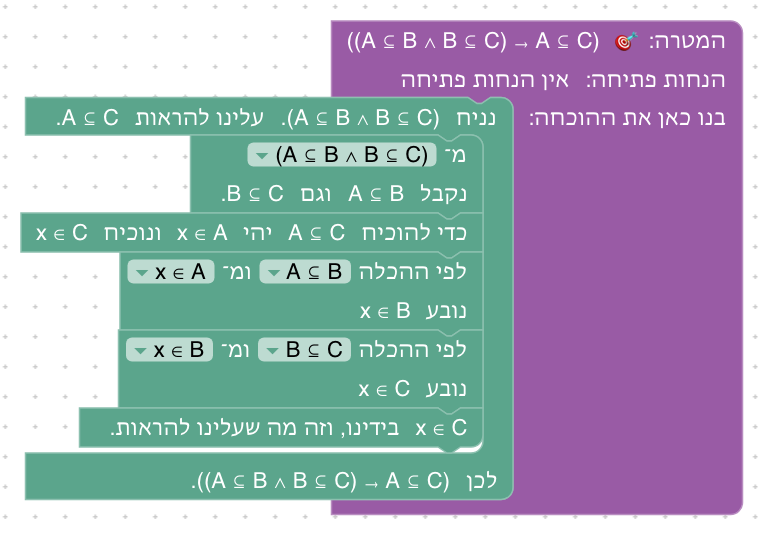
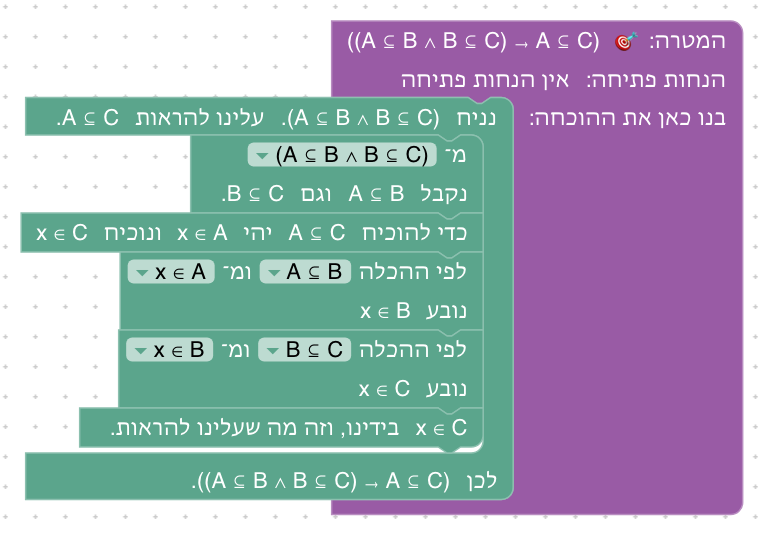
Never name a new object as a variable bound in a statement in hand
One rule for every new object: its variable's name, unless an object in
hand has it, or a variable bound in a statement in hand or in the goal does;
then the first subscript free. So "יהי x₀ ∈ A" when the assumption is
¬∃x (…), as in level 8.4; ∀ introduction and ∃ elimination always get x₀,
as before, since their variable is bound in the statement they take apart.

diff --git a/frontend/src/game/unit8World.js b/frontend/src/game/unit8World.js
@@ -140,12 +140,12 @@ export const unit8Levels = [
 בהרצאה: A *אינה מוכלת* ב־B, ונסמן A ⊈ B, אם קיים איבר ב־A שאינו נמצא ב־B: \`A ⊈ B ⟺ ∃x (x ∈ A ∧ x ∉ B)\`. בהרצאה זה פותח מההגדרה בשקילויות: שלילת כמת כולל, ואחר כך שלילת גרירה.
 
 כאן נוכיח את הכיוון ⇐ בלי שקילויות, בהוכחה בשלילה (יחידה 4): נניח שאין איבר כזה, ונוכיח A ⊆ B, בסתירה להנחה ¬(A ⊆ B).
-בתוך ההכלה, יהי x ∈ A. אם x ∉ B, x הוא בדיוק האיבר שאמרנו שאינו קיים. לכן גם שם נוכיח בשלילה.`,
+בתוך ההכלה, יהי x₀ ∈ A. השם x₀, ולא x, כי x כבר משמש כמשתנה קשור בהנחה ∃x (…). אם x₀ ∉ B, x₀ הוא בדיוק האיבר שאמרנו שאינו קיים. לכן גם שם נוכיח בשלילה.`,
         hints: [
             `גררו את הבלוק ${ASSUME_BLOCK} אל תוך בלוק המטרה, ולתוכו את הבלוק ${BY_CONTRADICTION_BLOCK}. עכשיו כתוב בו: נניח בשלילה ¬∃x (x ∈ A ∧ ¬x ∈ B). עלינו להגיע לסתירה.`,
-            `גררו לתוכו את הבלוק ${NOT_ELIM_BLOCK} עם ¬(A ⊆ B): די להוכיח A ⊆ B. אחריו הוסיפו את הבלוק ${SUBSET_INTRO_BLOCK}: יהי x ∈ A ונוכיח x ∈ B.`,
-            `הוסיפו שוב את הבלוק ${BY_CONTRADICTION_BLOCK}: נניח בשלילה ¬x ∈ B. ובתוכו ${NOT_ELIM_BLOCK} עם ¬∃x (x ∈ A ∧ ¬x ∈ B): די להוכיח שקיים איבר כזה.`,
-            `הוסיפו את הבלוק ${EXISTS_INTRO_BLOCK}, ובחרו בו את x. בתוכו ${AND_INTRO_BLOCK}: בכל חלק, מה שמוכיחים כבר בידינו.`,
+            `גררו לתוכו את הבלוק ${NOT_ELIM_BLOCK} עם ¬(A ⊆ B): די להוכיח A ⊆ B. אחריו הוסיפו את הבלוק ${SUBSET_INTRO_BLOCK}: יהי x₀ ∈ A ונוכיח x₀ ∈ B.`,
+            `הוסיפו שוב את הבלוק ${BY_CONTRADICTION_BLOCK}: נניח בשלילה ¬x₀ ∈ B. ובתוכו ${NOT_ELIM_BLOCK} עם ¬∃x (x ∈ A ∧ ¬x ∈ B): די להוכיח שקיים איבר כזה.`,
+            `הוסיפו את הבלוק ${EXISTS_INTRO_BLOCK}, ובחרו בו את x₀. בתוכו ${AND_INTRO_BLOCK}: בכל חלק, מה שמוכיחים כבר בידינו.`,
         ],
         conclusion: `הוכחתם שמ־A ⊈ B נובע שקיים איבר ב־A שאינו ב־B. הכיוון השני קל יותר: איבר כזה מראה שלא כל איבר של A שייך ל־B.
 זו השקילות של ההרצאה, ¬∀x (x ∈ A → x ∈ B) ⟺ ∃x (x ∈ A ∧ x ∉ B): שלילת "לכל" ושלילת גרירה, שתיהן מיחידה 6.`,

diff --git a/frontend/src/blocks/moves.js b/frontend/src/blocks/moves.js
@@ -1,7 +1,7 @@
 import * as Blockly from 'blockly/core';
 import { leanBranches, leanGenerator } from '../generator/lean';
 import { PLACEHOLDER } from '../blocks/gameBlocks';
-import { formatProofGoal, freshName, negatedStatement, splitConnective, splitImplication, splitQuantifier, splitRelation, subscriptedName, substitute, unfoldMembership } from '../game/formatProofGoal';
+import { boundNames, formatProofGoal, freshName, negatedStatement, splitConnective, splitImplication, splitQuantifier, splitRelation, substitute, unfoldMembership } from '../game/formatProofGoal';
 import { isolateFormulas, isolateHebrew } from '../game/bidi';
 import { hasNoVariables, unfoldableParts } from '../game/terms';
 
@@ -513,13 +513,15 @@ const elementName = (block, smaller, larger = '') => {
 const isRelationSet = (block, text) => (text.replace(/\[[^\]]*\]_\S+/g, '').match(/\p{L}[\p{L}\p{N}₀-₉_']*/gu) || [])
     .some((name) => block.stateBefore?.relations?.includes(name));
 
-// The name of a new object: an element a set's rule takes keeps its
-// variable's name, unless taken (see freshName); the object ∀ introduction
-// and ∃ elimination take is the quantified variable's with a subscript, x₀,
-// to read apart from the bound x (see subscriptedName).
+// The name of a new object: its variable's, unless an object in hand has it,
+// or a variable bound in a statement in hand or in the goal does, so that an
+// object never reads as a bound variable; then the first subscript free, x₀
+// (see freshName). The object ∀ introduction and ∃ elimination take is named
+// apart from the variable of the statement they take apart: "יהי x₀ שרירותי".
 const thingsInHand = (block) => [...(block.stateBefore?.objects || []), ...(block.stateBefore?.sets || []), ...(block.stateBefore?.relations || []), ...(block.stateBefore?.functions || [])];
-const newObjectName = (block, variable) => freshName(variable, thingsInHand(block));
-const arbitraryObjectName = (block, variable) => subscriptedName(variable, thingsInHand(block));
+const takenNames = (block) => [...thingsInHand(block), ...[...(block.stateBefore?.assumptions || []), block.stateBefore?.goal || ''].flatMap(boundNames)];
+const newObjectName = (block, variable) => freshName(variable, takenNames(block));
+const arbitraryObjectName = (block, variable) => freshName(variable, [...takenNames(block), variable]);
 
 const sameStatement = (a, b) => formatProofGoal(a) === formatProofGoal(b);
 

diff --git a/frontend/src/game/formatProofGoal.test.js b/frontend/src/game/formatProofGoal.test.js
@@ -1,5 +1,5 @@
 import { describe, expect, it } from 'vitest';
-import { formatProofGoal, splitImplication } from './formatProofGoal';
+import { boundNames, formatProofGoal, splitImplication } from './formatProofGoal';
 
 describe('formatProofGoal', () => {
     it('leaves an atomic goal alone', () => {
@@ -43,6 +43,13 @@ describe('formatProofGoal with and, or, iff, not', () => {
     it('keeps negation tight', () => {
         expect(formatProofGoal('¬P ∨ Q')).toBe('(¬P ∨ Q)');
         expect(formatProofGoal('¬(P ∧ Q)')).toBe('¬(P ∧ Q)');
+    });
+
+    it('finds the variables a statement binds', () => {
+        expect(boundNames('∃ x, ∀ (y : obj), R x y')).toEqual(['x', 'y']);
+        expect(boundNames('¬∃ x, x ∈ A ∧ ¬x ∈ B')).toEqual(['x']);
+        expect(boundNames('∀ x y, P x → Q y')).toEqual(['x', 'y']);
+        expect(boundNames('x ∈ A')).toEqual([]);
     });
 
     it('puts a negated relation in parentheses, but not a negated membership', () => {

diff --git a/frontend/e2e/solutions.js b/frontend/e2e/solutions.js
@@ -256,7 +256,7 @@ export const UNITS = [
             [{ label: 'פתרון', steps: [assume, andElim('A ⊆ B ∧ B ⊆ C'), subsetIntro, subsetElim('A ⊆ B', 'x ∈ A'), subsetElim('B ⊆ C', 'x ∈ B'), close] }],
             [{
                 label: 'פתרון',
-                steps: [assume, byContradiction, notElim('¬A ⊆ B'), subsetIntro, byContradiction, notElim('¬∃ x, x ∈ A ∧ ¬x ∈ B'), existsIntro('x'), andIntro([close], [close])],
+                steps: [assume, byContradiction, notElim('¬A ⊆ B'), subsetIntro, byContradiction, notElim('¬∃ x, x ∈ A ∧ ¬x ∈ B'), existsIntro('x₀'), andIntro([close], [close])],
             }],
             [{ label: 'פתרון', steps: [assume, andElim('A ⊆ B ∧ B ⊆ A'), setEq([close], [close])] }],
             [{ label: 'פתרון', steps: [subsetIntro, unfold('x ∈ ∅'), exfalso, close] }],

diff --git a/frontend/src/game/formatProofGoal.js b/frontend/src/game/formatProofGoal.js
@@ -55,6 +55,17 @@ const parseQuantifier = (text) => {
     return null;
 };
 
+// The variables bound by the quantifiers of a statement, as Lean writes it:
+// `∃ x, ∀ (y : obj), R x y` binds x and y (and `∃ x ∈ A, …` binds x).
+export const boundNames = (text = '') => {
+    const names = [];
+    for (let index = 0; index < text.length; index += 1) {
+        const quantifier = QUANTIFIERS.includes(text[index]) && parseQuantifier(text.slice(index));
+        if (quantifier) names.push(...quantifier.names.join(' ').split('∈')[0].trim().split(/\s+/).filter(Boolean));
+    }
+    return names;
+};
+
 // A quantified formula (possibly negated) inside a connective is written in
 // parentheses, so it is clear where its body ends: `(∀x P(x)) → Q`.
 const isQuantified = (formula) => QUANTIFIERS.includes(formula.replace(/^¬+/, '')[0]);

diff --git a/frontend/src/game/moves.test.js b/frontend/src/game/moves.test.js
@@ -295,6 +295,9 @@ describe('the moves of lesson 2, on sets', () => {
         expect(phraseOf(subsetIntro)).toBe('כדי להוכיח 𝒫(A) ⊆ 𝒫(B) יהי X ∈ 𝒫(A) ונוכיח X ∈ 𝒫(B)');
         inner.setStateBefore({ assumptions: ['x ∈ A'], objects: ['x'], sets: ['A'], goal: 'A ⊆ A' });
         expect(phraseOf(inner)).toBe('כדי להוכיח A ⊆ A יהי x₀ ∈ A ונוכיח x₀ ∈ A');
+        // Nor the name of a variable bound in a statement in hand.
+        inner.setStateBefore({ assumptions: ['¬∃ x, x ∈ A ∧ ¬x ∈ B'], objects: [], sets: ['A', 'B'], goal: 'A ⊆ B' });
+        expect(phraseOf(inner)).toBe('כדי להוכיח A ⊆ B יהי x₀ ∈ A ונוכיח x₀ ∈ B');
     });
 });
 

diff --git a/docs/curriculum/design/moves.md b/docs/curriculum/design/moves.md
@@ -21,7 +21,7 @@
 - **מהלך שמשתמש בהנחת האינדוקציה אומר זאת**, כמו בספרים ("by the inductive hypothesis"): בחלק "צעד" של אינדוקציה, החלפה לפי אחת מהנחות האינדוקציה נכתבת "לפי הנחת האינדוקציה … נחליף …", סיום שהמטרה בו היא ההנחה נכתב "זו בדיוק הנחת האינדוקציה.", וחשבון או אלגברה שכל ההנחות שנבחרו בהם הן הנחות האינדוקציה נכתבים "… ומהנחת האינדוקציה A" או "… ומהנחות האינדוקציה A ו־B" (במקום "ומ־"). הבלוק מזהה את ההנחות לפי הכותרת של החלק שהוא נמצא בו. זה אותו כלל, החלפה לפי שוויון, בניסוח שמסמן איפה האינדוקציה עובדת.
 - **מהלך שמפצל את ההוכחה כותב בראש כל חלק מה מוכיחים בו**, לפי מצב ההוכחה: "החלק הראשון: P" ו"החלק השני: Q" בהוכחת "וגם", "הכיוון הראשון: P → Q" בהוכחת "אם ורק אם", "נוכיח A ∈ 𝒫(A)" בטענת עזר, "מקרה 1: P" בחלוקה למקרים, "בסיס: נוכיח P(0)" ו"צעד: נניח P(n) ונוכיח P(n + 1)" באינדוקציה. באינדוקציה מבנית (יחידה 12) יש חלק לכל דרך לבנות את המבנה של השלב, למשל "בסיס: נוכיח P(leaf)" ו"צעד: נניח P(l) ו־P(r) ונוכיח P(node(l,r))".
 - **בחירה לפי הטענה גם כשבוחרים צד או כיוון**: בהוכחת "או" בוחרים את הצד מרשימה של שני הצדדים של המטרה ("כדי להוכיח Q ∨ P נוכיח את [P]"), ובהחלפה לפי שוויון הכיוון מוצג כהחלפה עצמה ("נחליף את y ב־x + 7").
-- **לעצמים יש שמות**, כמו בהוכחה כתובה ("יהי x₀ שרירותי"). הוכחת "לכל" ושימוש ב"קיים" נותנים לעצם שהם לוקחים את שם המשתנה שבטענה עם אינדקס, x₀ (ואם x₀ כבר בידינו, x₁): לכתוב "יהי x" כש־x הוא גם שם המשתנה הקשור מבלבל, אף שזה נכון לפי הכללים. זה שונה מההרצאה, שבה "'יהי x' לוקח משתנה קשור וקובע אותו. מכאן והלאה הוא מתנהג כמשתנה חופשי". ההחלטה הזאת התהפכה פעמיים: בהתחלה כל עצם חדש קיבל אינדקס, ב־2026-10-21 הוחלט ללכת אחרי ההרצאה (x, ואינדקס רק כשהשם תפוס), וב־2026-10-23 הוחלט לחזור ל־x₀. מהלכים שלוקחים איבר של קבוצה (הוכחת הכלה ודומיה) נותנים לו את שם המשתנה, ואינדקס רק כשהשם תפוס. ב"✎ כתיבה ידנית" כותבים x_0, והוא הופך ל־x₀. לאיבר של קבוצת חזקה קוראים X. בצעד של אינדוקציה המשתנה שומר על שמו ("נניח P(n) ונוכיח P(n + 1)"), כמו ב־Logic and Proof.
+- **לעצמים יש שמות**, כמו בהוכחה כתובה ("יהי x₀ שרירותי"). הוכחת "לכל" ושימוש ב"קיים" נותנים לעצם שהם לוקחים את שם המשתנה שבטענה עם אינדקס, x₀ (ואם x₀ כבר בידינו, x₁): לכתוב "יהי x" כש־x הוא גם שם המשתנה הקשור מבלבל, אף שזה נכון לפי הכללים. זה שונה מההרצאה, שבה "'יהי x' לוקח משתנה קשור וקובע אותו. מכאן והלאה הוא מתנהג כמשתנה חופשי". ההחלטה הזאת התהפכה פעמיים: בהתחלה כל עצם חדש קיבל אינדקס, ב־2026-10-21 הוחלט ללכת אחרי ההרצאה (x, ואינדקס רק כשהשם תפוס), וב־2026-10-23 הוחלט לחזור ל־x₀. הכלל הכללי (2026-10-24): עצם חדש לא נקרא בשם של עצם שבידינו, וגם לא בשם של משתנה קשור בהנחה או במטרה, כדי שעצם לעולם לא ייקרא כמו משתנה קשור; אז הוא מקבל אינדקס. בהוכחת "לכל" ובשימוש ב"קיים" המשתנה קשור תמיד בטענה שמפרקים, ולכן תמיד x₀. מהלכים שלוקחים איבר של קבוצה (הוכחת הכלה ודומיה) נותנים לו את שם המשתנה, x, כשהוא פנוי. ב"✎ כתיבה ידנית" כותבים x_0, והוא הופך ל־x₀. לאיבר של קבוצת חזקה קוראים X. בצעד של אינדוקציה המשתנה שומר על שמו ("נניח P(n) ונוכיח P(n + 1)"), כמו ב־Logic and Proof.
 - **מהלך לכל אסטרטגיה של ההרצאה.** ארבע האסטרטגיות של ההרצאה שהן כללים נגזרים, גרירה ושלילת המסקנה (modus tollens), הוכחה בקונטרפוזיציה, הוכחת "או" בהנחת השלילה של צד אחד, וחלוקה למקרים לפי טענה ושלילתה, הן מהלכים משלהם (יחידה 7, [07-proof-structures.md](../07-proof-structures.md)). הוכחת "או" בהנחת השלילה של צד אחד מוצגת כבר ביחידה 4 (שלב 4.10), מיד אחרי השלילה: בחירת צד (יחידה 3) היא רק המקרה הפרטי שבו צד אחד ניתן להוכחה לבדו, ואינה מספיקה ל־P ∨ ¬P או ל־¬P ∨ Q מתוך P → Q (הוחלט 2026-10-23). ב־Lean הן משפטים של הקורס (`STRATEGY_PRELUDE`), שנוספים רק לשלבים שמציעים אותן.
 - **מהלך אחד לכל כלל.** כל כלל של דדוקציה טבעית הוא מהלך משלו, כמו בספרי הלימוד (forall x, Huth & Ryan, Logic and Proof). כך, למשל, הוכחת שלילה היא מהלך משלה, ולא שימוש במהלך של גרירה, אף ש־Lean מגדיר ¬P כ־P → ⊥: "נניח" נכשל על מטרה שהיא שלילה (גם שלילה לפי הגדרה, כמו x₀ ∈ Aᶜ; המהלכים עדיין מכירים את המשלים, אף שאף שלב לא משתמש בו עכשיו), ו"לפי הגרירה" וההסקה קדימה נכשלים על הנחה שהיא שלילה, וההסבר מפנה למהלך של השלילה. החריג: שימוש בהגדרה של פעולה על קבוצות הוא מהלך אחד לכל הפעולות, שכותב לפי איזו הגדרה ("לפי הגדרת החיתוך, x₀ ∈ (A ∩ B) פירושו …"), כי הצעד הלוגי הוא "להחליף טענה במה שהיא אומרת", ולא בחירת בלוק לפי סימן.
 - **השימוש בהנחות לא מוסתר.** חשבון ואלגברה (יחידות 11–12) באים כל אחד בשני מהלכים: מהמטרה לבדה ("נכונות המטרה נובעת מחשבון פשוט.", "נכונות המטרה נובעת מאלגברה."), שמוציאים קודם את כל מה שבידינו (`easylean_goal_only`), ו"נכונות המטרה נובעת מחשבון פשוט / ומ־[A] [ו־B] … [ ▾]" (ובארגז "… ומ־ ?"), שמשתמשים רק בהנחות שבוחרים בהם, והבלוק כותב אותן. בוחרים הנחה בשדה שאחרי "ומ־", ואחריה בא שדה ריק, עם חץ בלבד, שהרשימה שלו מציעה עוד הנחה; בחירה בו מוסיפה אחריו שדה ריק חדש, כך שאפשר לבחור כמה הנחות שצריך. ב־Lean ההנחות שנבחרו מועתקות (`have easylean_fact1 := ‹A›`), עוברות אל המטרה (`revert`), כל מה שבידינו יוצא (`easylean_goal_only`), והן חוזרות (`intros`), כך ש־`omega` או `grind` רואים רק אותן. הוחלט (לבקשת מחבר הקורס), במקום "ומההנחות שבידינו": כך השימוש בהנחה, ובמיוחד בהנחת האינדוקציה, כתוב בהוכחה במפורש, ומטרה יכולה לנבוע מחשבון יחד עם כמה הנחות. הנחה שהיא שוויון ומופיעה במטרה מחליפים לפיה, ואחר כך חשבון מהמטרה לבדה; החשבון בעזרת ההנחות בארגז רק בשלבים שבהם אי אפשר להחליף לפי ההנחה (אי־שוויון, או הנחה שמופיעה במטרה בצורה אחרת). מותר לבחור בו גם הנחה שאפשר היה להחליף לפיה, אבל גם אז ההוכחה כותבת באיזו הנחה השתמשו.

diff --git a/docs/curriculum/08-sets.md b/docs/curriculum/08-sets.md
@@ -8,7 +8,7 @@
 
 ## המהלכים
 
-כמו ביחידות הקודמות, להנחות אין שמות, ולעצמים יש. האיבר שלוקחים כדי להוכיח הכלה שומר על שם המשתנה, x, כמו בהרצאה; רק אם x כבר בידינו הוא נקרא x₀ (בשונה מ"יהי x₀ שרירותי" של הוכחת "לכל", ראו [design/moves.md](design/moves.md)). איבר של קבוצת חזקה נקרא X.
+כמו ביחידות הקודמות, להנחות אין שמות, ולעצמים יש. האיבר שלוקחים כדי להוכיח הכלה שומר על שם המשתנה, x, כמו בהרצאה, אלא אם x כבר בידינו, או ש־x הוא משתנה קשור בהנחה או במטרה (כמו ב־8.4, שבה ההנחה היא ¬∃x (…)); אז הוא נקרא x₀. זה אותו כלל שנותן את "יהי x₀ שרירותי" בהוכחת "לכל", ראו [design/moves.md](design/moves.md). איבר של קבוצת חזקה נקרא X.
 
 | מהלך | כשהוא במקומו | Lean | לפני → אחרי |
 |---|---|---|---|
